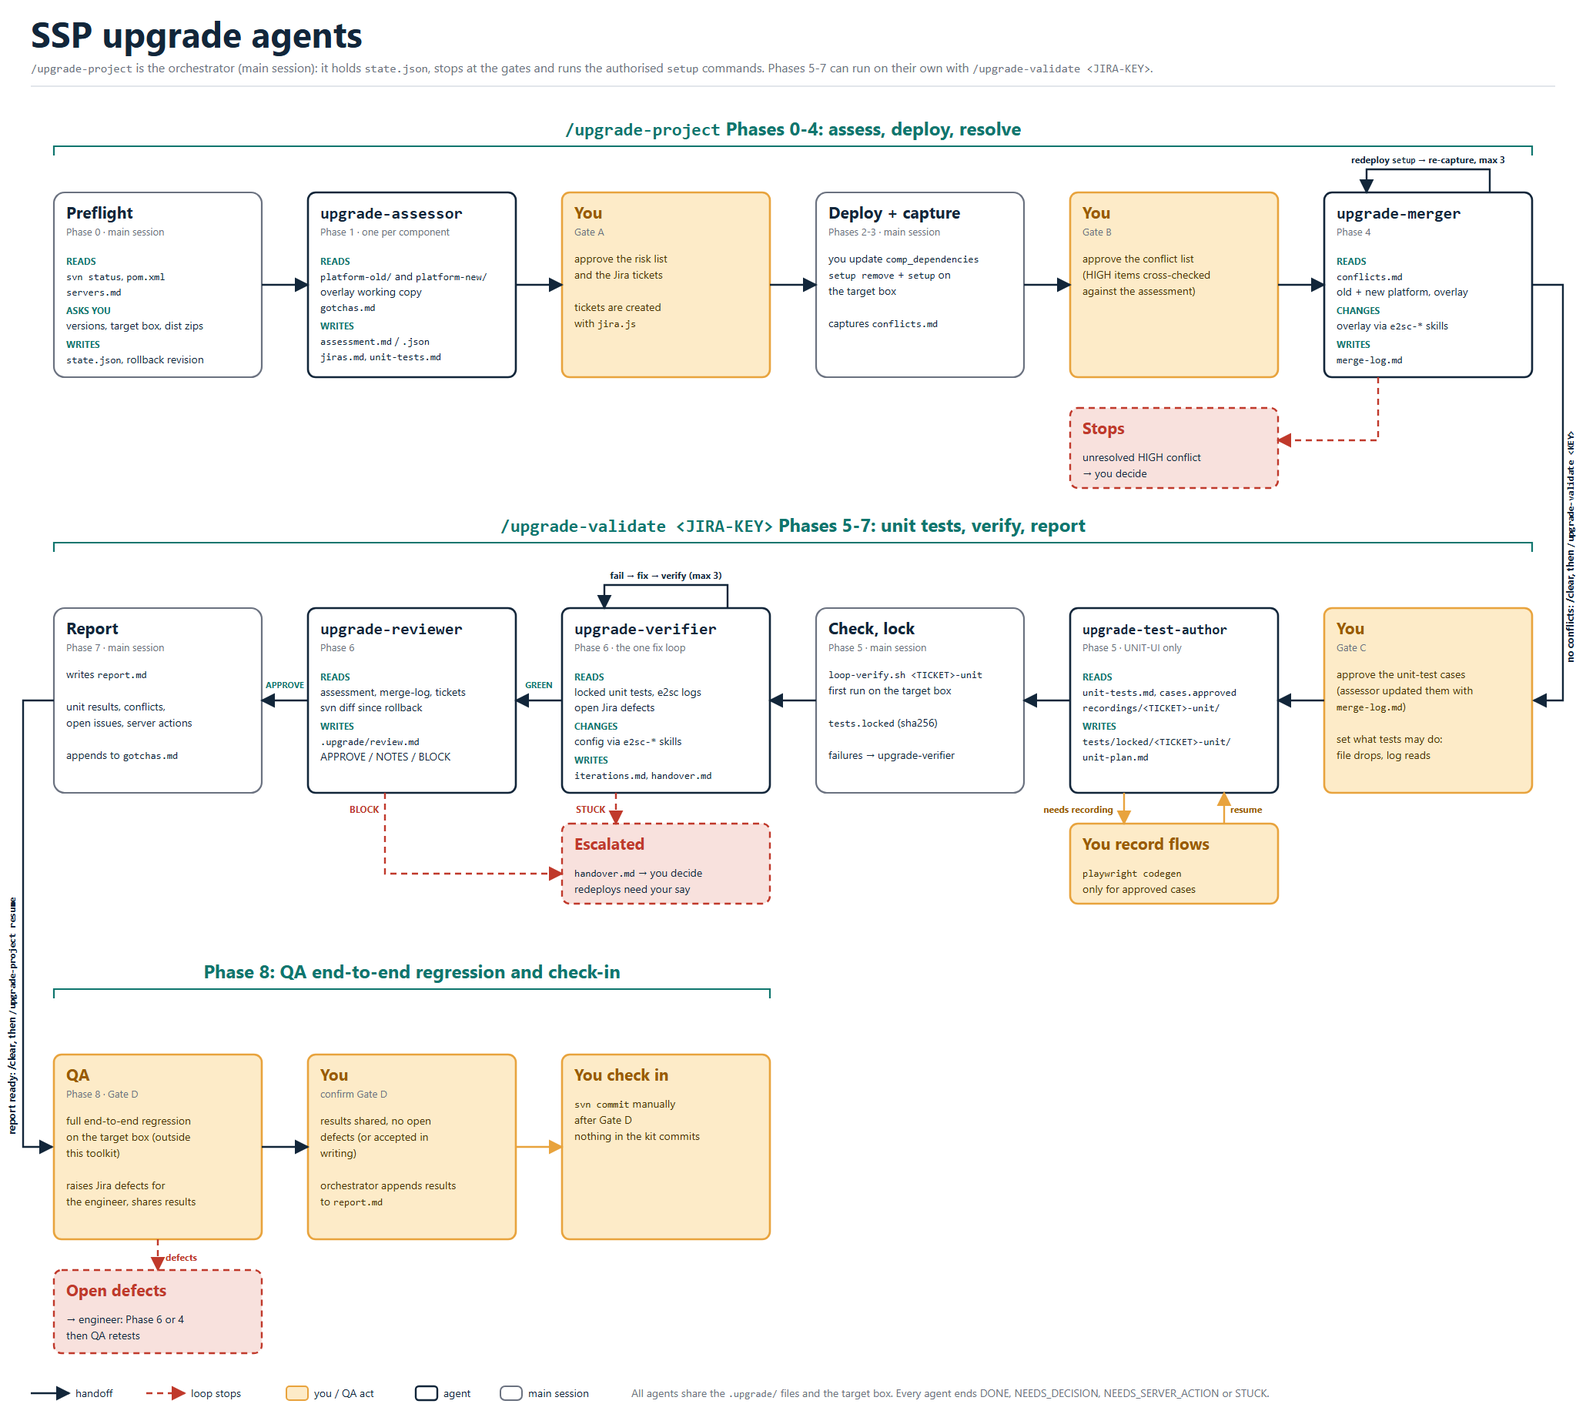
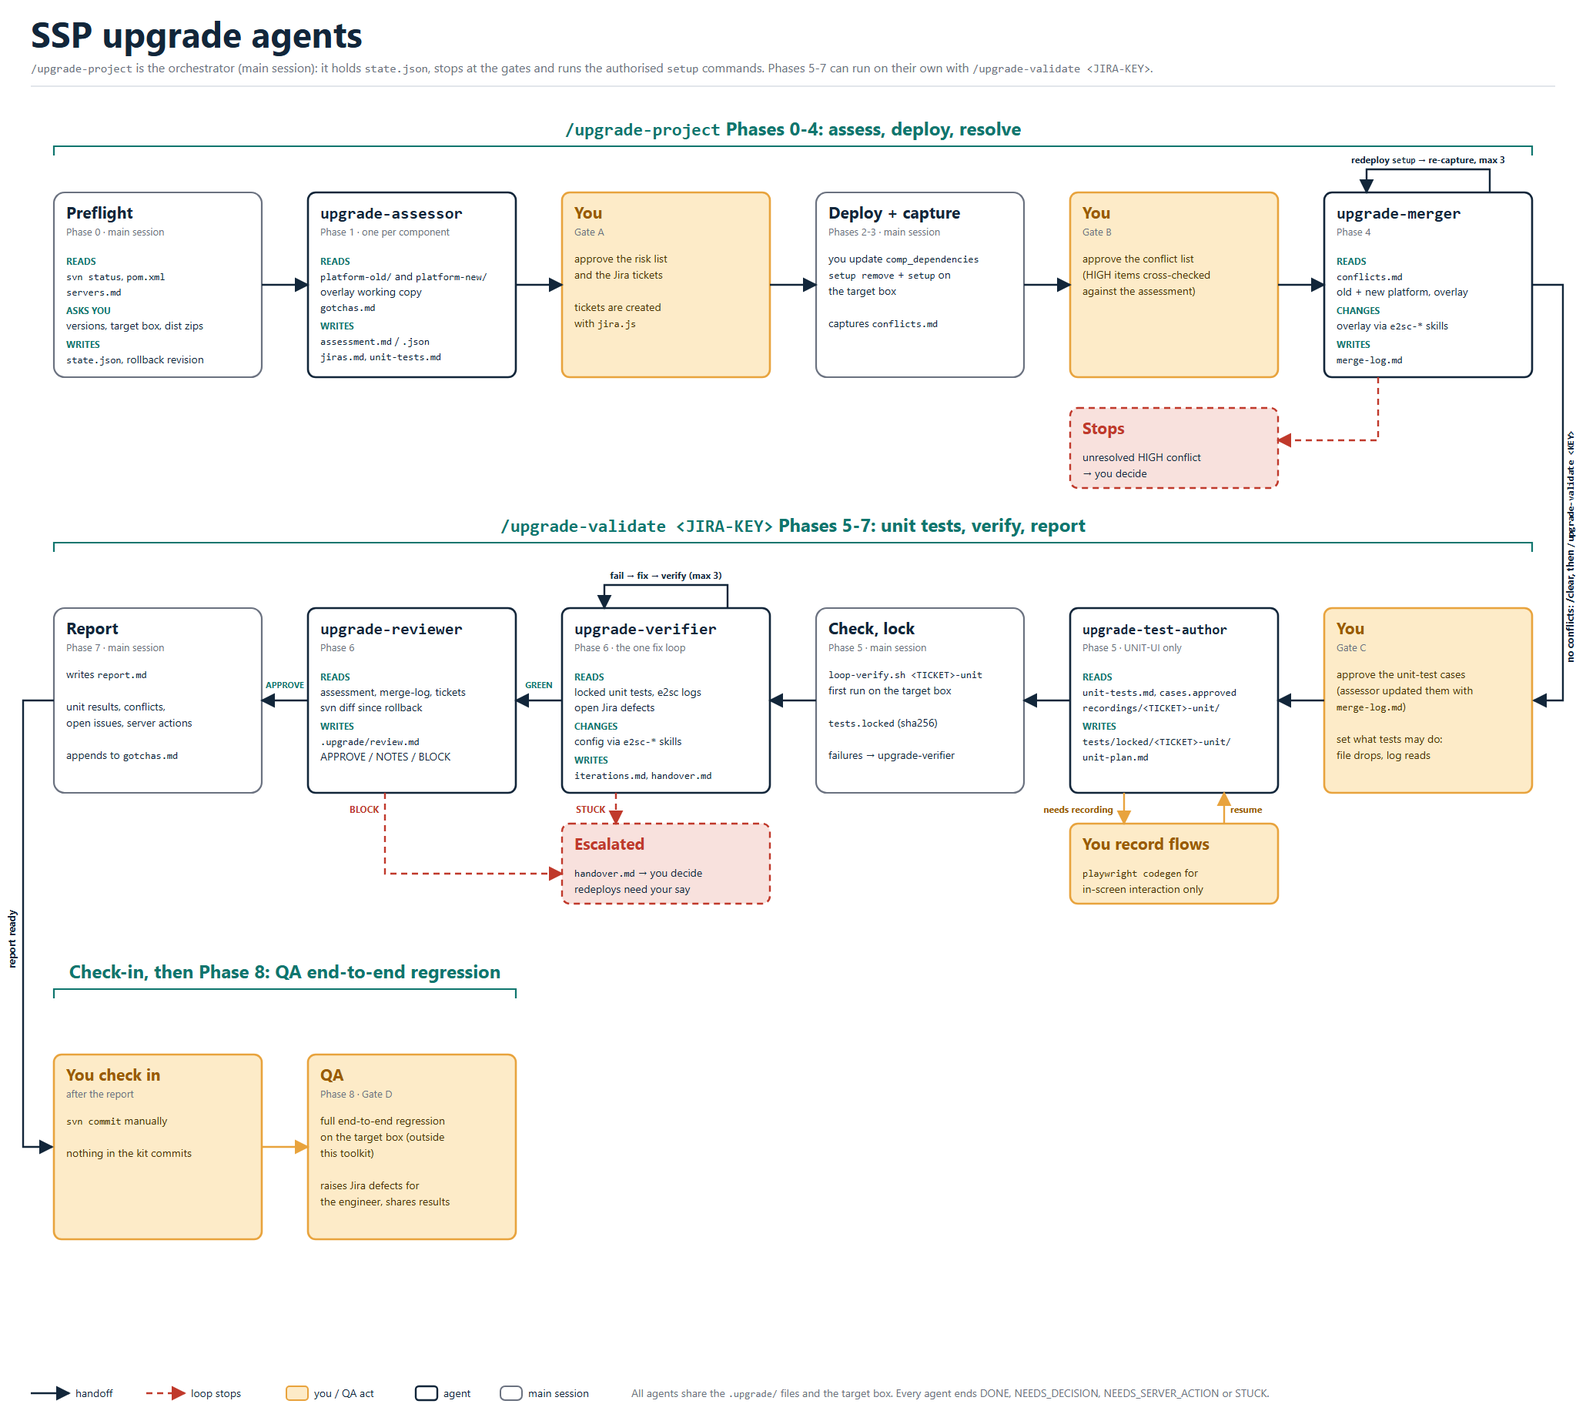
upgrade agent updated

diff --git a/ssp-upgrade-toolkit/claude/agents/upgrade-test-author.md b/ssp-upgrade-toolkit/claude/agents/upgrade-test-author.md
@@ -19,11 +19,14 @@ These tests mimic unit testing: a narrow gate, not end-to-end tests. QA does the
 - Anything end-to-end (several actions under test, chains, several roles, neighbouring regression) gets no test: "not written: left to QA".
 
 ## Inputs
-The caller gives `<TICKET>`. Start only when `.loop/<TICKET>-unit/cases.approved` exists. It records which cases the engineer approved, their edits, and what they allowed (inbox drops over SSH, server log reads, which test data). Also read `.upgrade/unit-tests.md` (the assessor's cases, each with a Level and a Status), the carried-forward suite already copied into `e2sc-ui_tests/tests/locked/<TICKET>-unit/`, and any recordings in `e2sc-ui_tests/recordings/<TICKET>-unit/`.
+The caller gives `<TICKET>`. Start only when `.loop/<TICKET>-unit/cases.approved` exists. It records which cases the engineer approved, their edits, and what they allowed (inbox drops over SSH, server log reads, which test data). Also read `.upgrade/unit-tests.md` (the assessor's cases, each with a Level and a Status), the carried-forward suite already copied into `e2sc-ui_tests/tests/locked/<TICKET>-unit/`, and any recordings in `e2sc-ui_tests/recordings/<TICKET>-unit/` and discovery notes in `.loop/<TICKET>-unit/discovery-*.md`.
 
 ## What to write
 1. **Exactly the approved UNIT-UI cases** with Status `new` or `needs update`: no more, no fewer. Leave `unchanged` carried-forward tests as they are. Remove the tests of `obsolete` cases and list them in the plan. Use only the access and data the engineer allowed. If a case can't be written as approved (the flow differs, a record is missing, it needs access that wasn't allowed), report it rather than working around it or adding a substitute.
-2. **Recordings first.** Base selectors and navigation on flows a human recorded with Playwright codegen, not on guesses. They live in `e2sc-ui_tests/recordings/<TICKET>-unit/<flow>.ts`. If any are missing, write `.loop/<TICKET>-unit/recording-requests.md` and return NEEDS_RECORDING, then stop without writing tests. For each flow give a short name, the cases it supports, the exact steps to click through (which record or data to open, where to stop), what to assert (the codegen toolbar's "Assert visibility" or "Assert text"), and the command from `e2sc-ui_tests/`: `npx playwright codegen --output recordings/<TICKET>-unit/<flow>.ts <baseURL>/e2sc/logon.do`, taking `<baseURL>` from `E2_BASE_URL` or `playwright.config.ts`. The engineer records on the **target box**. When resumed, reuse the recordings' navigation and locators but wrap them in the harness helpers (`loginAsSuper`, `getRcpFrame`), and replace hard-coded data with unique values. Recordings are reference material: never import or run them from locked tests.
+2. **Recordings and discovery first.** Base selectors and navigation on evidence, not guesses: a flow a human recorded with Playwright codegen (`e2sc-ui_tests/recordings/<TICKET>-unit/<flow>.ts`), or a discovery note (`.loop/<TICKET>-unit/discovery-<flow>.md`) written by a read-only replay. Resolve each screen's menu path from `MENU_MAP` in `e2sc-ui_tests/tests/helpers.ts` (or `e2sc-ui_tests/menu-map.json`): it gives the group, heading and item, but not the workflow name, which comes from the menu item's `javascript:` href or the screen URL's `wf=` parameter. Recordings carried forward from the previous upgrade (copied into `recordings/<TICKET>-unit/`) are references only: reuse one for a `needs update` case only if its screen is unchanged, otherwise ask for a fresh one. Never import or run a recording from a locked test. When resumed, reuse the navigation and locators from the recordings and discovery notes, but wrap them in the harness helpers (`loginAsSuper`, `getRcpFrame`), and replace hard-coded data with unique values.
+   - **A case that only opens a screen and checks what is visible** (a field, column, label, dropdown value) needs a **discovery note**, not a human recording. Write `.loop/<TICKET>-unit/discovery-requests.md` naming each screen, its menu path from `MENU_MAP`, and what to capture (the workflow name and the locators of the elements to assert), and return NEEDS_DISCOVERY.
+   - **A case with in-screen interaction** (selecting values, type-aheads, uploads, downloads) needs a **human recording**. Write `.loop/<TICKET>-unit/recording-requests.md` and return NEEDS_RECORDING. For each flow give a short name, the cases it supports, the exact steps to click through (which record or data to open, where to stop), what to assert (the codegen toolbar's "Assert visibility" or "Assert text"), and the command from `e2sc-ui_tests/`: `npx playwright codegen --output recordings/<TICKET>-unit/<flow>.ts <baseURL>/e2sc/logon.do`, taking `<baseURL>` from `E2_BASE_URL` or `playwright.config.ts`. The engineer records on the **target box**.
+   - If both are needed, write both files and return NEEDS_RECORDING and NEEDS_DISCOVERY together. Stop without writing tests until they are resolved. If a recording or note shows the flow differs from the approved case (a missing menu item, a different screen), report it rather than working around it.
 3. **One test per approved case**, named with its case id, for example `UT3 (HIGH-4): Month column is shown in PIT Detail`. A case may hold several checks: use `expect.soft` with a message naming each check, and never drop an approved check. Where a case has setup steps, assert after each with a hard `expect` that the precondition holds before the action under test.
 4. **Location:** `e2sc-ui_tests/tests/locked/<TICKET>-unit/*.spec.ts`, importing shared helpers from `../../helpers`. Don't change existing tests or helpers; put any new helper in the same directory.
 5. **Never** use `test.fail`, `test.skip`, `test.fixme` or `test.only`. The verify gate rejects them. Never hard-code a host: use `E2_BASE_URL`. Tests that create data use unique values and must not depend on, or damage, data other people use on the shared server.
@@ -36,4 +39,4 @@ Run the gate on the target box with `bash ~/.claude/scripts/loop-verify.sh <TICK
 
 Write `.upgrade/unit-plan.md`: a table mapping each approved case to its test, Level and first-run result, then the "not written" list (logic-unit, left to QA, obsolete, and any case you couldn't write) and the carry-forward decisions.
 
-Reply only with `DONE` or `NEEDS_RECORDING` (or `NEEDS_DECISION` or `STUCK` with the reason), the spec file paths or requested flow names, the pass/fail counts, and any approved case you couldn't write. The detail belongs in `unit-plan.md` and `recording-requests.md`. Do not implement or change anything on the server.
+Reply only with `DONE`, `NEEDS_RECORDING` and/or `NEEDS_DISCOVERY` (or `NEEDS_DECISION` or `STUCK` with the reason), the spec file paths or requested flow and screen names, the pass/fail counts, and any approved case you couldn't write. The detail belongs in `unit-plan.md`, `recording-requests.md` and `discovery-requests.md`. Do not implement or change anything on the server.

diff --git a/ssp-upgrade-toolkit/README.md b/ssp-upgrade-toolkit/README.md
@@ -27,7 +27,7 @@ Every subagent ends with DONE, NEEDS_DECISION, NEEDS_SERVER_ACTION or STUCK. Ass
 | 2 | First deployment | Engineer | You update `comp_dependencies` and rootpom `ssp.version`; the agent verifies they match the target. `setup remove` then `setup` on the target box. Re-seed data, run the smoke check. | Deployed box | A deploy step fails |
 | 3 | Capture conflicts | Engineer | Run any extra p2c/reload/restart steps. Collect the conflicts the deployment reported, tag each with risk and ticket. Cross-check every HIGH assessment item is listed or marked "no action". | `conflicts.md` | **Gate B** |
 | 4 | Resolve | Engineer | `upgrade-merger` resolves each conflict (`*.replace` starts from the new platform file and re-applies the customer delta). Redeploy with plain `setup`, re-capture, smoke check. Up to 3 rounds, within the 5-redeploy cap. | `merge-log.md`, updated `conflicts.md` | Unresolved HIGH conflict |
-| 5 | Playwright unit tests (every upgrade) | Engineer | Validates the build. The assessor's `.upgrade/unit-tests.md` lists a case for each HIGH-risk item and one basic case per upload/download workflow (carried forward from the previous upgrade's suite where one exists). The engineer approves the cases, `upgrade-test-author` writes the Playwright tests (recordings by the engineer where requested), and the first run of `loop-verify.sh <TICKET>-unit` on the target box is recorded. Failures are not fixed here. Narrow by design: QA's full end-to-end regression is separate and outside this toolkit. | `unit-tests.md`, `unit-results.md`, `tests/locked/<TICKET>-unit/` | **Gate C** |
+| 5 | Playwright unit tests (every upgrade) | Engineer | Validates the build. The assessor's `.upgrade/unit-tests.md` lists a case for each HIGH-risk item and one basic case per upload/download workflow (carried forward from the previous upgrade's suite where one exists). The engineer approves the cases, `upgrade-test-author` writes the Playwright tests (recordings by the engineer for in-screen interaction; read-only discovery runs for open-and-check screens), and the first run of `loop-verify.sh <TICKET>-unit` on the target box is recorded. Failures are not fixed here. Narrow by design: QA's full end-to-end regression is separate and outside this toolkit. | `unit-tests.md`, `unit-results.md`, `tests/locked/<TICKET>-unit/` | **Gate C** |
 | 6 | Verify and fix | Engineer | `upgrade-verifier` owns the single fix loop (3 iterations in total): it works the unit failures and open Jira defects, batches its product/config fixes, reads server logs, and sends merge mistakes back to `upgrade-merger`, until the unit gate is GREEN. Server actions come back as NEEDS_SERVER_ACTION. Then `upgrade-reviewer` checks the whole upgrade against the assessment and merge log. | `iterations.md`, `handover.md`, `review.md` | STUCK, or a BLOCK |
 | 7 | Report | Engineer | Summarise versions, files by overlay type, conflicts auto vs human resolved, unit test results, open issues, server actions, redeploy count, rollback revision. Append new gotchas. | `report.md`, `gotchas.md` | QA regression is next |
 | 8 | QA end-to-end regression | QA | QA runs the full end-to-end regression on the target box outside this toolkit, raises a Jira defect for each failure (assigned to the engineer) and shares the test results. The engineer gives the orchestrator the results location and the open defect keys; defects are fixed in Phase 6 or 4 and QA retests. Gate D passes when results are shared and no open defects remain (or the engineer accepts them in writing). | Results reference and defect list in `report.md` | **Gate D** |
@@ -44,7 +44,7 @@ Editable source: `docs/upgrade-agents.svg`.
 | `upgrade-assessor` | 1, and 5 (update) | Read-only on the project; writes under `.upgrade/assessment/<component>/`, one agent per component with ids prefixed by component; the orchestrator merges the results. Compares the old and new platform against every customisation, ranks risk HIGH/MEDIUM/LOW, drafts the Jira tickets, and writes the Playwright unit-test case list (`unit-tests.md`) and `assessment.json`. |
 | `upgrade-merger` | 4 | Resolves the conflicts the deployment reported, in the working copy, using the old platform, new platform and customer versions (`*.replace` files start from the new platform file). Uses the config skills, logs every decision in `merge-log.md`, and returns NEEDS_SERVER_ACTION where a server compile is needed. |
 | `upgrade-verifier` | 6 | Owns the single fix loop (3 iterations for the whole upgrade). Runs the unit gate on the target box, reads the server logs, classifies each failure, batches product and config fixes through the config skills, and hands merge mistakes back to the merger. Works any open Jira defects assigned to the engineer. Never edits locked tests. |
-| `upgrade-test-author` | 5 | Writes the Playwright unit tests for the engineer-approved cases (UNIT-UI only; logic-unit and end-to-end are listed as not written). Tests are expected to pass on the upgraded box, and it asks for codegen recordings where needed. Separate from the agent loop's `test-author`; it reuses that file's harness lessons and upload rules. |
+| `upgrade-test-author` | 5 | Writes the Playwright unit tests for the engineer-approved cases (UNIT-UI only; logic-unit and end-to-end are listed as not written). Tests are expected to pass on the upgraded box, It uses the harness menu map to name each screen's menu path, asks the engineer for codegen recordings only for in-screen interaction (selecting values, uploads, downloads), and uses read-only discovery runs for screens that are only opened and checked. Separate from the agent loop's `test-author`; it reuses that file's harness lessons and upload rules. |
 | `upgrade-reviewer` | 6 | Independent review of the whole upgrade against the assessment, merge log and tickets (not the tests): every HIGH item handled, `*.replace` files built from the new platform file, spec versions and source spreadsheets, locked test hashes, scope creep and commit hygiene. Separate from the agent loop's `reviewer`. Writes `review.md`. |
 
 The agents use these skills for config changes and checks: `e2sc-config`, `e2sc-ocmm`, `e2sc-pcmm`, `e2sc-io`, `e2sc-cfg`, `alert-config`, `e2na-config`, `e2sc-logging` and `e2sc-playwright`.

diff --git a/ssp-upgrade-toolkit/claude/commands/upgrade-validate.md b/ssp-upgrade-toolkit/claude/commands/upgrade-validate.md
@@ -23,7 +23,7 @@ This is the second half of the engineer's work in `/upgrade-project` (Phases 5-7
 Runs on **every** upgrade. It validates the build: automated Playwright tests on the target box prove the HIGH-risk items and the basic upload and download workflows. It is deliberately narrow. QA's full end-to-end regression is separate and outside this toolkit, and this phase does not replace it.
 1. **Cases come from the assessor.** `.upgrade/unit-tests.md` was written in Phase 1: part A has a case for each HIGH-risk item (and MEDIUM items that change behaviour), part B has one basic case per upload and download workflow found in the overlay (IoDocTypeDef uploads/downloads, e2na inbound/outbound EBL routes and specs). If the previous upgrade's unit suite exists (path given at preflight), the assessor marks each carried-forward case as unchanged, needs update (a platform or overlay change touched it) or obsolete, and adds new cases for new items. Now re-invoke `upgrade-assessor` in update mode (one invocation over the merged `.upgrade/` files, editing `unit-tests.md` in place) with `merge-log.md`, so items that became HIGH during the merge are reflected.
 2. **Approve the cases.** Show the engineer the list; they can drop, add or edit cases. Write `.loop/<TICKET>-unit/cases.approved`: the date, the approved case ids, and what the engineer allows (inbox file drops over SSH, server log reads, which test data). Tests use only what is allowed.
-3. **Write the tests.** Copy the carried-forward suite into `e2sc-ui_tests/tests/locked/<TICKET>-unit/`, then delegate to `upgrade-test-author`. It reads the approved cases, `unit-tests.md` and `cases.approved`, writes only the new and needs-update UNIT-UI cases, removes obsolete ones, and lists logic-unit and end-to-end cases as not written in `.upgrade/unit-plan.md`. Set `E2_BASE_URL` to the target box in the environment first. If it returns NEEDS_RECORDING, show the engineer each flow from `recording-requests.md` (steps, assertions, and the codegen command on the target box), wait for the recordings, and resume the same agent.
+3. **Write the tests.** Copy the carried-forward suite into `e2sc-ui_tests/tests/locked/<TICKET>-unit/`, then delegate to `upgrade-test-author`. It reads the approved cases, `unit-tests.md` and `cases.approved`, writes only the new and needs-update UNIT-UI cases, removes obsolete ones, and lists logic-unit and end-to-end cases as not written in `.upgrade/unit-plan.md`. Set `E2_BASE_URL` to the target box in the environment first. Also copy the previous upgrade's recordings (`e2sc-ui_tests/recordings/<previous>-unit/`, if they exist) into `recordings/<TICKET>-unit/` as references. If it returns NEEDS_RECORDING, show the engineer each flow from `recording-requests.md` (steps, assertions, and the codegen command on the target box), wait for the recordings, and resume the same agent. If it returns NEEDS_DISCOVERY, delegate each screen in `discovery-requests.md` to a general-purpose subagent with `model: sonnet`: a read-only replay in a throwaway spec under `e2sc-ui_tests/tests/_discovery/` (e2sc-playwright skill, no fixed delays, nothing written on the shared server) that opens the screen with the harness helpers, reads the workflow name from the menu item's `javascript:` href, and records the locators of the elements to assert. It writes `.loop/<TICKET>-unit/discovery-<flow>.md` and replies only with that path and whether it succeeded; resume the same agent with those notes. Use the same replay when a human recording stops short (for example at a popup) instead of asking again. The throwaway specs are never locked and never committed.
 4. **Check the agent's work yourself:** one test per approved case, named with its case id, no banned markers, no hard-coded host, no access beyond what was allowed, and `unit-plan.md` accounts for every approved case.
 5. **Run the gate once on the target box.** `E2_BASE_URL=<target box> bash ~/.claude/scripts/loop-verify.sh <TICKET>-unit`. `upgrade-test-author` has already fixed test defects (max 2 rounds), so a RED result here is a real finding or stale data (fixture dates expire). Don't fix anything in this phase: Phase 6 owns the fix loop. Never edit a test to make it pass. If it is unclear whether the upgrade caused a failure, ask QA to run the same case on an old-version box.
 6. **Gate C.** The engineer has approved the cases, and the tests are written and locked. Write `.upgrade/unit-results.md` (per case: first-run result and evidence) and `.loop/<TICKET>-unit/tests.locked` (sha256 of every file). Failures become Phase 6's work list. Post a comment on `<TICKET>`, and on each child ticket, when its cases pass, and never transition tickets without the engineer saying so.

diff --git a/ssp-upgrade-toolkit/claude/agents/upgrade-reviewer.md b/ssp-upgrade-toolkit/claude/agents/upgrade-reviewer.md
@@ -24,7 +24,7 @@ Check:
 7. **Test integrity.** The sha256 of every file listed in `.loop/<TICKET>-unit/tests.locked` is unchanged. There is no `test.fail`, `test.skip`, `test.fixme` or `test.only`. Existing tests and helpers outside `e2sc-ui_tests/tests/locked/<TICKET>-unit/` are unchanged. Watch for test gaming: values hard-coded to match test data, host detection, assertions weakened to pass.
 8. **Consumers of changed shared files.** For every changed support file (flat-file configs, transforms, writers, templates), find all the scenarios and routes that use it, including outbound ones, and state whether each consumer's output changes. Duplicate templates (`solution/templates/` next to `e2na/ebl/support_file/`) must match.
 9. **Version files.** `solution/sysbuild/comp_dependencies` and the rootpom `ssp.version` agree with the target version, Java stays at 11, and the `BRANCH` and `SNAPSHOT` placeholders are untouched.
-10. **Commit hygiene.** Things that must not be committed: unversioned harness output (`node_modules`, `test-results`, `playwright-report`, recordings with data), credentials (for example `jira-cookie.txt`), the `.upgrade/` and `.loop/` working directories, and `platform-old/` and `platform-new/`. The new `e2sc-ui_tests/tests/locked/<TICKET>-unit/` directory does need adding.
+10. **Commit hygiene.** Things that must not be committed: unversioned harness output (`node_modules`, `test-results`, `playwright-report`, recordings with data, throwaway discovery specs under `tests/_discovery/`), credentials (for example `jira-cookie.txt`), the `.upgrade/` and `.loop/` working directories, and `platform-old/` and `platform-new/`. The new `e2sc-ui_tests/tests/locked/<TICKET>-unit/` directory does need adding.
 11. **Open conditions.** List, don't decide: the failing cases the engineer accepted in writing, and the platform behaviour questions in `handover.md`.
 12. **Risk.** EDI mappings, shared specs, persistence and uniqueness keys, permissions, security, or anything on `~/.claude/loop/always-human.md` (if it exists).
 
